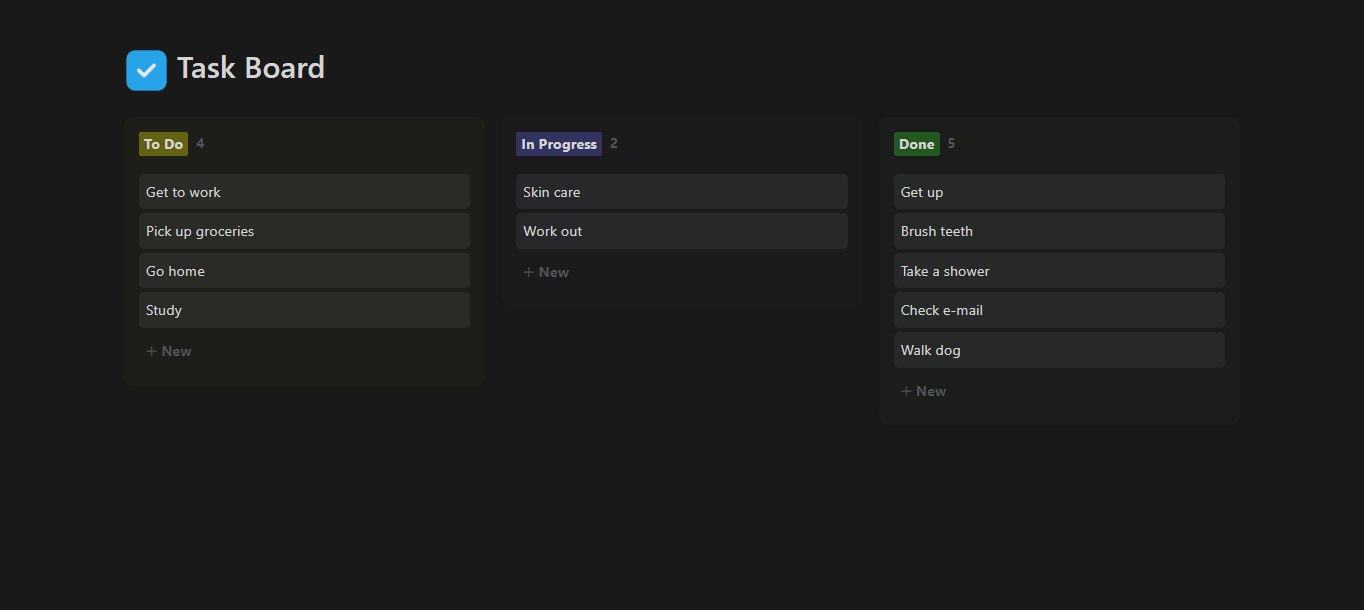
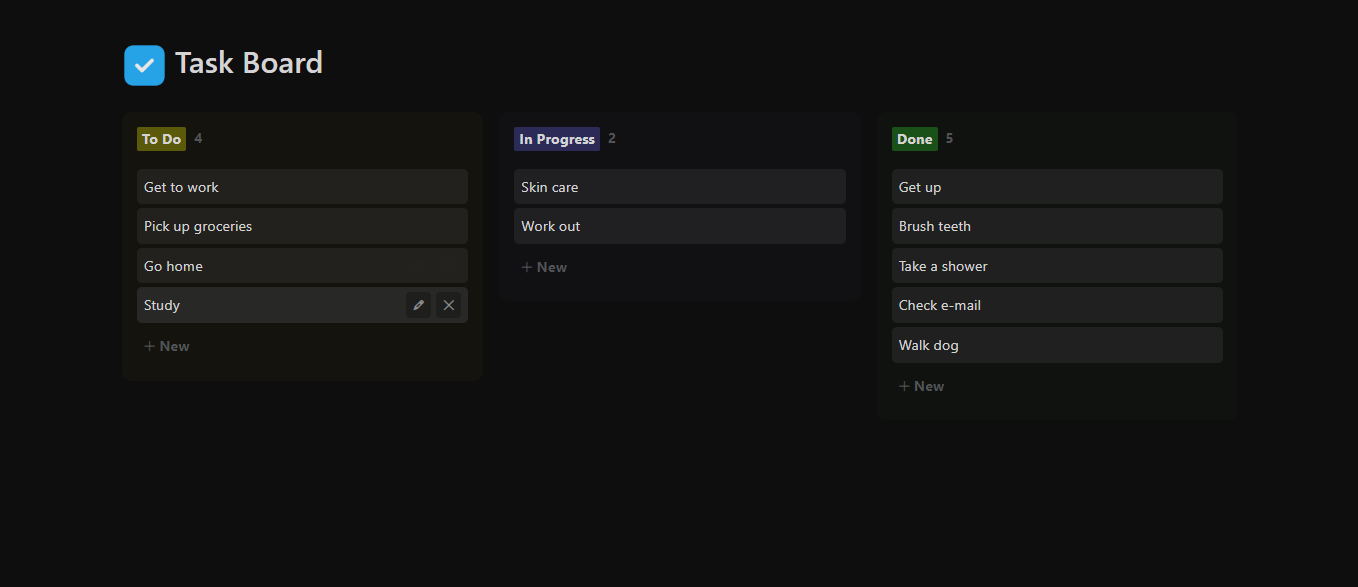
readme

diff --git a/src/styles.css b/src/styles.css
@@ -1,5 +1,5 @@
 html, .bg {
-  background-color: #191919;
+  background-color: #0f0e0e;
   color: #D4D4D4;
   width: 100%;
   height: 100%;

diff --git a/README.md b/README.md
@@ -11,7 +11,7 @@ AngularTaskBoard is a task management application built with Angular. It allows 
 2. Clone the repository to your local machine using the following command:
 
     ```$ 
-    git clone `https://github.com/naisireth/AngularTaskBoard.git`
+    git clone https://github.com/naisireth/AngularTaskBoard.git
     ```
 
 3. Navigate to the project directory:
@@ -28,11 +28,12 @@ AngularTaskBoard is a task management application built with Angular. It allows 
 
 5. Start the development server by running the command:
 
-    ng serve
-        
     ```$
-    This will compile the application and start a local development server. You can access the application in your browser at `http://localhost:4200/`. The application will automatically reload if you make any changes to the source files.
-    ``` 
+    ng serve
+    ```
+
+    This will compile the application and start a local development server. You can access the application in your browser at [http://localhost:4200/](http://localhost:4200/). The application will automatically reload if you make any changes to the source files.
+
 
 ## Code Scaffolding
 
